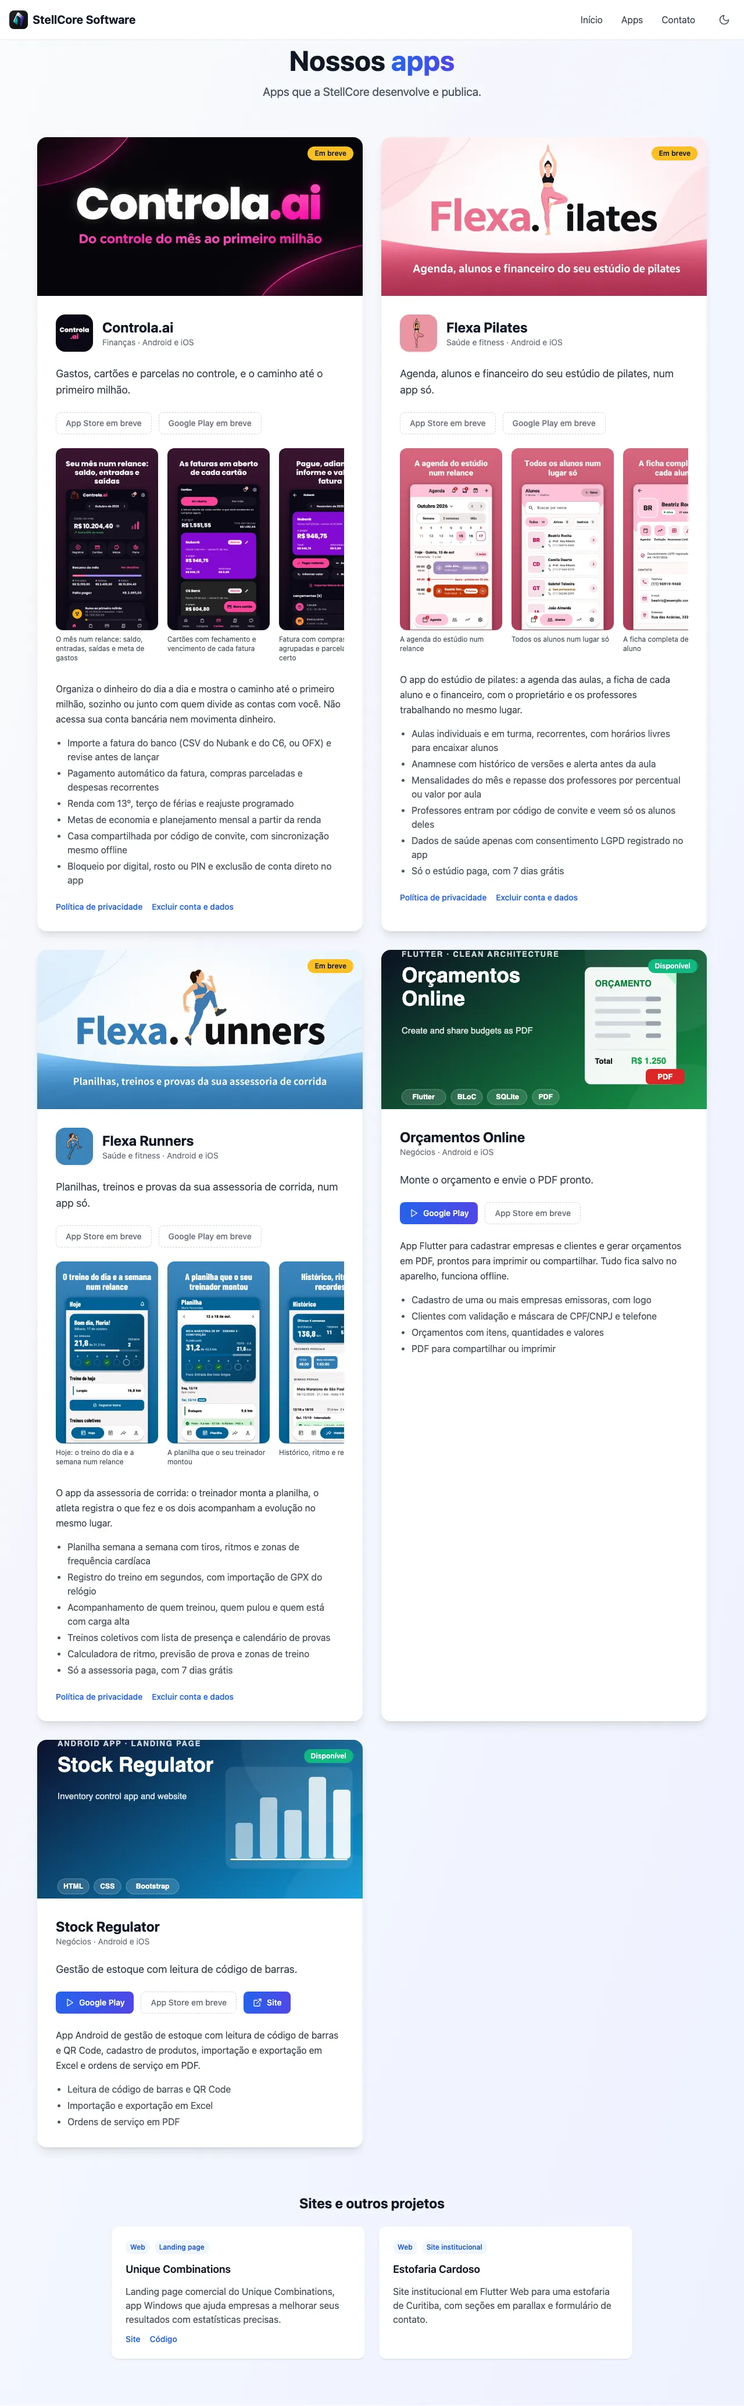
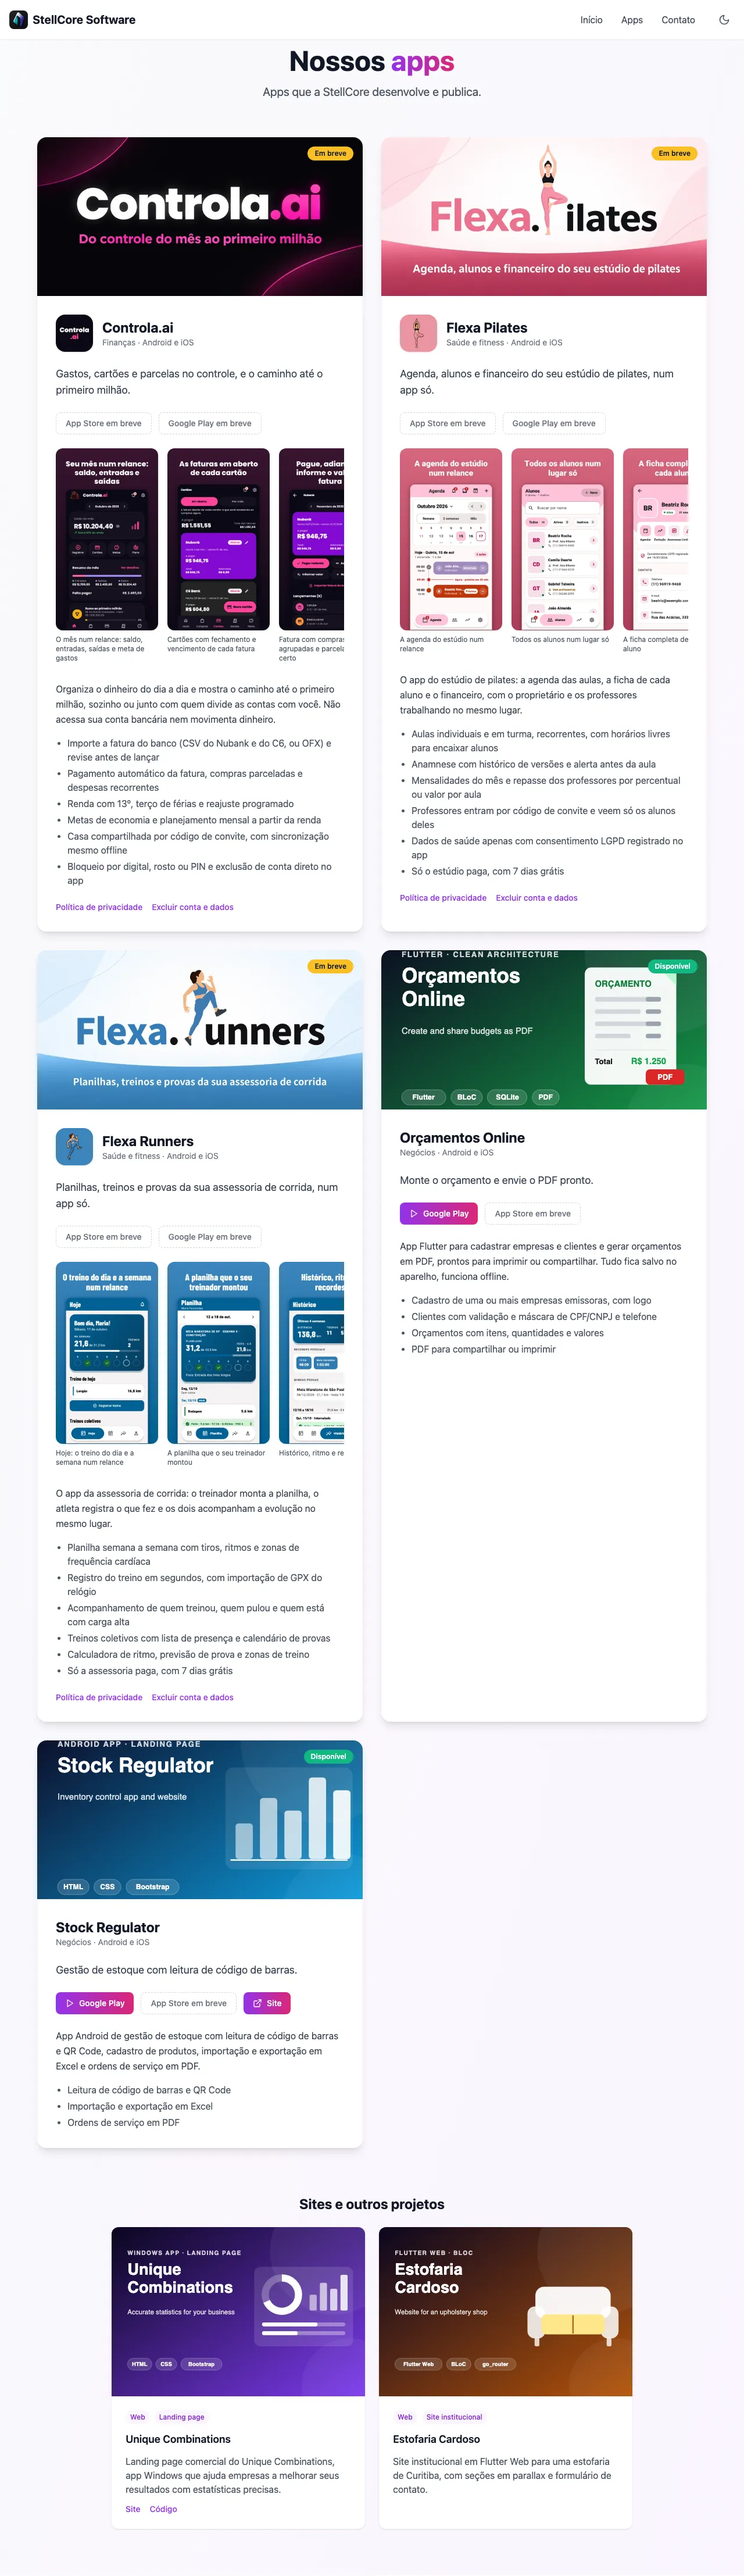
style: bring back the purple and pink palette and project covers

Changed region(s): [[0.0312, 0.0, 0.9688, 0.9973]]

diff --git a/src/components/Apps.tsx b/src/components/Apps.tsx
@@ -2,7 +2,7 @@ import { ExternalLink, Play } from 'lucide-react';
 import { apps, otherProjects, type AppEntry } from '@/data/apps';
 
 const storeLink =
-  'inline-flex items-center gap-2 rounded-lg px-4 py-2 text-sm font-medium bg-gradient-to-r from-blue-600 to-indigo-600 text-white hover:from-blue-700 hover:to-indigo-700';
+  'inline-flex items-center gap-2 rounded-lg px-4 py-2 text-sm font-medium bg-gradient-to-r from-purple-600 to-pink-600 text-white hover:from-purple-700 hover:to-pink-700';
 
 function AppBlock({ app }: { app: AppEntry }) {
   const available = app.status === 'Disponível';
@@ -92,12 +92,12 @@ function AppBlock({ app }: { app: AppEntry }) {
         {(app.privacy || app.terms) && (
           <div className="flex flex-wrap gap-4 text-sm font-medium">
             {app.privacy && (
-              <a href={app.privacy} target="_blank" rel="noopener noreferrer" className="text-blue-600 dark:text-blue-400 hover:underline">
+              <a href={app.privacy} target="_blank" rel="noopener noreferrer" className="text-purple-600 dark:text-purple-400 hover:underline">
                 Política de privacidade
               </a>
             )}
             {app.terms && (
-              <a href={app.terms} target="_blank" rel="noopener noreferrer" className="text-blue-600 dark:text-blue-400 hover:underline">
+              <a href={app.terms} target="_blank" rel="noopener noreferrer" className="text-purple-600 dark:text-purple-400 hover:underline">
                 Excluir conta e dados
               </a>
             )}
@@ -110,11 +110,11 @@ function AppBlock({ app }: { app: AppEntry }) {
 
 export default function Apps() {
   return (
-    <section id="projects" className="py-20 bg-gradient-to-br from-gray-50 to-indigo-50 dark:from-gray-900 dark:to-indigo-950">
+    <section id="projects" className="py-20 bg-gradient-to-br from-gray-50 to-purple-50 dark:from-gray-900 dark:to-purple-950">
       <div className="container mx-auto px-4">
         <div className="text-center mb-16">
           <h2 className="text-4xl md:text-5xl font-bold text-gray-900 dark:text-white mb-4">
-            Nossos <span className="bg-gradient-to-r from-blue-600 to-indigo-600 bg-clip-text text-transparent">apps</span>
+            Nossos <span className="bg-gradient-to-r from-purple-600 to-pink-600 bg-clip-text text-transparent">apps</span>
           </h2>
           <p className="text-xl text-gray-600 dark:text-gray-400 max-w-3xl mx-auto">
             Apps que a StellCore desenvolve e publica.
@@ -130,10 +130,12 @@ export default function Apps() {
         <h3 className="text-2xl font-bold text-gray-900 dark:text-white mt-20 mb-6 text-center">Sites e outros projetos</h3>
         <div className="grid grid-cols-1 md:grid-cols-2 gap-6 max-w-4xl mx-auto">
           {otherProjects.map((p) => (
-            <div key={p.name} className="rounded-xl bg-white dark:bg-gray-800 shadow p-6 flex flex-col gap-3">
+            <div key={p.name} className="rounded-xl overflow-hidden bg-white dark:bg-gray-800 shadow flex flex-col">
+              <img src={p.image} alt="" loading="lazy" className="w-full aspect-[3/2] object-cover" />
+              <div className="p-6 flex flex-col gap-3">
               <div className="flex flex-wrap gap-2">
                 {p.tags.map((t) => (
-                  <span key={t} className="text-xs font-medium px-2 py-1 rounded-full bg-blue-50 text-blue-700 dark:bg-blue-900/40 dark:text-blue-300">
+                  <span key={t} className="text-xs font-medium px-2 py-1 rounded-full bg-purple-50 text-purple-700 dark:bg-purple-900/40 dark:text-purple-300">
                     {t}
                   </span>
                 ))}
@@ -143,12 +145,13 @@ export default function Apps() {
               {p.links.length > 0 && (
                 <div className="flex gap-4 text-sm font-medium">
                   {p.links.map((l) => (
-                    <a key={l.href} href={l.href} target="_blank" rel="noopener noreferrer" className="text-blue-600 dark:text-blue-400 hover:underline">
+                    <a key={l.href} href={l.href} target="_blank" rel="noopener noreferrer" className="text-purple-600 dark:text-purple-400 hover:underline">
                       {l.label}
                     </a>
                   ))}
                 </div>
               )}
+              </div>
             </div>
           ))}
         </div>

diff --git a/src/components/Header.tsx b/src/components/Header.tsx
@@ -31,19 +31,19 @@ export default function Header() {
           <nav className="hidden md:flex items-center space-x-8">
             <button 
               onClick={() => scrollToSection('home')}
-              className="text-gray-700 hover:text-blue-600 transition-colors"
+              className="text-gray-700 hover:text-purple-600 transition-colors"
             >
               Início
             </button>
             <button 
               onClick={() => scrollToSection('projects')}
-              className="text-gray-700 hover:text-blue-600 transition-colors"
+              className="text-gray-700 hover:text-purple-600 transition-colors"
             >
               Apps
             </button>
             <button
               onClick={() => scrollToSection('contact')}
-              className="text-gray-700 dark:text-gray-300 hover:text-blue-600 dark:hover:text-blue-400 transition-colors"
+              className="text-gray-700 dark:text-gray-300 hover:text-purple-600 dark:hover:text-pink-400 transition-colors"
             >
               Contato
             </button>
@@ -65,19 +65,19 @@ export default function Header() {
             <div className="flex flex-col space-y-4 pt-4">
               <button 
                 onClick={() => scrollToSection('home')}
-                className="text-left text-gray-700 hover:text-blue-600 transition-colors"
+                className="text-left text-gray-700 hover:text-purple-600 transition-colors"
               >
                 Início
               </button>
               <button 
                 onClick={() => scrollToSection('projects')}
-                className="text-left text-gray-700 hover:text-blue-600 transition-colors"
+                className="text-left text-gray-700 hover:text-purple-600 transition-colors"
               >
                 Apps
               </button>
               <button 
                 onClick={() => scrollToSection('contact')}
-                className="text-left text-gray-700 hover:text-blue-600 transition-colors"
+                className="text-left text-gray-700 hover:text-purple-600 transition-colors"
               >
                 Contato
               </button>

diff --git a/src/components/Contact.tsx b/src/components/Contact.tsx
@@ -34,7 +34,7 @@ export default function Contact() {
       <div className="container mx-auto px-4">
         <div className="text-center mb-16">
           <h2 className="text-4xl md:text-5xl font-bold text-gray-900 dark:text-white mb-4">
-            Entre em <span className="bg-gradient-to-r from-blue-600 to-indigo-600 bg-clip-text text-transparent">Contato</span>
+            Entre em <span className="bg-gradient-to-r from-purple-600 to-pink-600 bg-clip-text text-transparent">Contato</span>
           </h2>
           <p className="text-xl text-gray-600 dark:text-gray-400 max-w-3xl mx-auto">
             Dúvidas sobre os nossos apps ou quer conversar sobre um projeto? Fale com a gente.
@@ -46,7 +46,7 @@ export default function Contact() {
             <Card key={item.title} className="hover:shadow-lg transition-all duration-300 border-0 shadow-md bg-white dark:bg-gray-800">
               <CardContent className="p-6">
                 <div className="flex items-start space-x-4">
-                  <div className="w-12 h-12 bg-gradient-to-r from-blue-500 to-indigo-500 rounded-lg flex items-center justify-center">
+                  <div className="w-12 h-12 bg-gradient-to-r from-purple-500 to-pink-500 rounded-lg flex items-center justify-center">
                     <item.icon className="h-6 w-6 text-white" />
                   </div>
                   <div>

diff --git a/src/components/Hero.tsx b/src/components/Hero.tsx
@@ -9,16 +9,16 @@ export default function Hero() {
   };
 
   return (
-    <section id="home" className="min-h-[70vh] flex items-center justify-center bg-gradient-to-br from-gray-50 via-blue-50 to-indigo-100 dark:from-gray-900 dark:via-blue-900 dark:to-indigo-900 pt-20">
+    <section id="home" className="min-h-[70vh] flex items-center justify-center bg-gradient-to-br from-gray-50 via-purple-50 to-pink-100 dark:from-gray-900 dark:via-purple-950 dark:to-pink-950 pt-20">
       <div className="container mx-auto px-4 py-20">
         <div className="text-center max-w-4xl mx-auto">
           <div className="animate-in fade-in slide-in-from-bottom-8 duration-1000">
             <h1 className="text-5xl md:text-7xl font-bold mb-6">
-              <span className="bg-gradient-to-r from-blue-600 via-indigo-600 to-purple-600 bg-clip-text text-transparent">
+              <span className="bg-gradient-to-r from-purple-600 via-fuchsia-600 to-pink-600 bg-clip-text text-transparent">
                 StellCore
               </span>
               <br />
-              <span className="text-gray-900">Software</span>
+              <span className="text-gray-900 dark:text-white">Software</span>
             </h1>
             
             <p className="text-xl md:text-2xl text-gray-600 dark:text-gray-300 mb-8 leading-relaxed">

diff --git a/src/data/apps.ts b/src/data/apps.ts
@@ -1,5 +1,7 @@
 import orcamentos from '@/images/projects/orcamentos-online.svg';
 import stock from '@/images/projects/stock-regulator.svg';
+import unique from '@/images/projects/unique-combinations.svg';
+import estofaria from '@/images/projects/estofaria-cardoso.svg';
 
 const images = import.meta.glob('@/images/apps/**/*.webp', { eager: true, import: 'default' }) as Record<string, string>;
 
@@ -156,6 +158,7 @@ export const apps: AppEntry[] = [
 export const otherProjects = [
   {
     name: 'Unique Combinations',
+    image: unique,
     description:
       'Landing page comercial do Unique Combinations, app Windows que ajuda empresas a melhorar seus resultados com estatísticas precisas.',
     tags: ['Web', 'Landing page'],
@@ -166,6 +169,7 @@ export const otherProjects = [
   },
   {
     name: 'Estofaria Cardoso',
+    image: estofaria,
     description: 'Site institucional em Flutter Web para uma estofaria de Curitiba, com seções em parallax e formulário de contato.',
     tags: ['Web', 'Site institucional'],
     links: [] as { label: string; href: string }[],

diff --git a/src/components/Footer.tsx b/src/components/Footer.tsx
@@ -32,13 +32,13 @@ export default function Footer() {
               <a href="https://www.linkedin.com/company/stellcore-software/about/?viewAsMember=true"
                 target="_blank"
                 rel="noopener noreferrer" 
-                className="text-gray-400 hover:text-blue-400 transition-colors">
+                className="text-gray-400 hover:text-pink-400 transition-colors">
                 <Linkedin className="h-5 w-5" />
               </a>
-              <a href="#" className="text-gray-400 hover:text-blue-400 transition-colors">
+              <a href="#" className="text-gray-400 hover:text-pink-400 transition-colors">
                 <Github className="h-5 w-5" />
               </a>
-              <a href="#" className="text-gray-400 hover:text-blue-400 transition-colors">
+              <a href="#" className="text-gray-400 hover:text-pink-400 transition-colors">
                 <Twitter className="h-5 w-5" />
               </a>
             </div>
